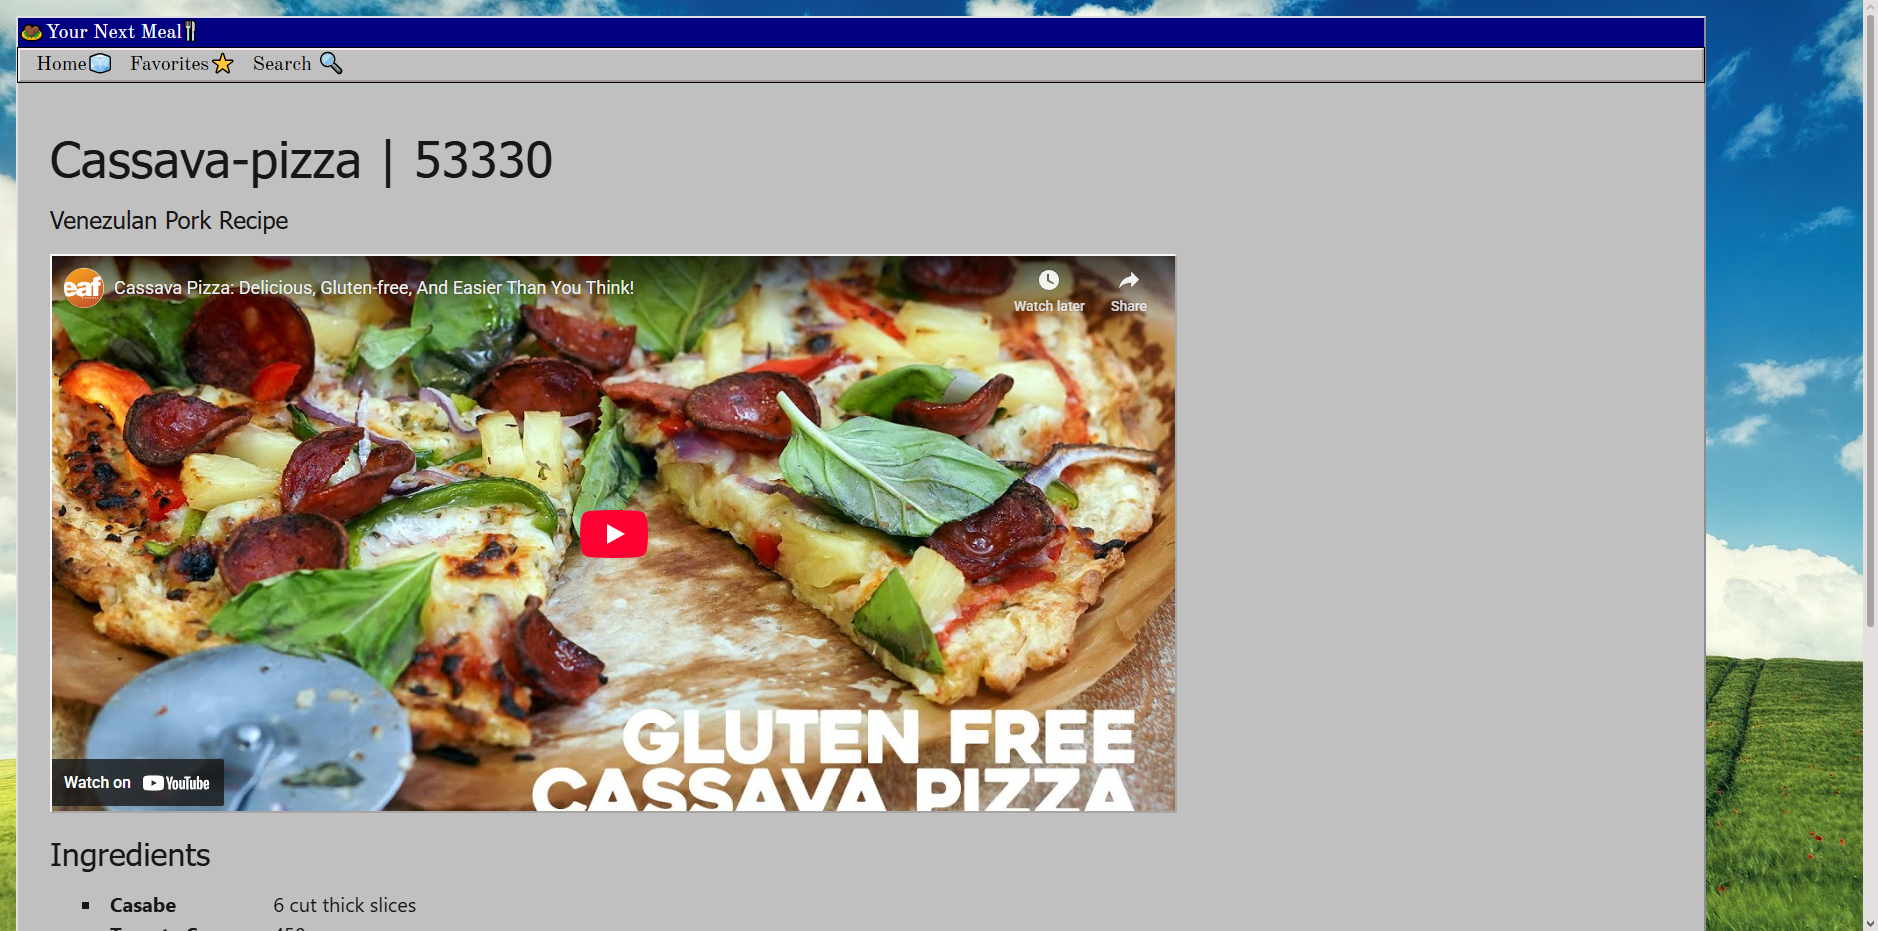
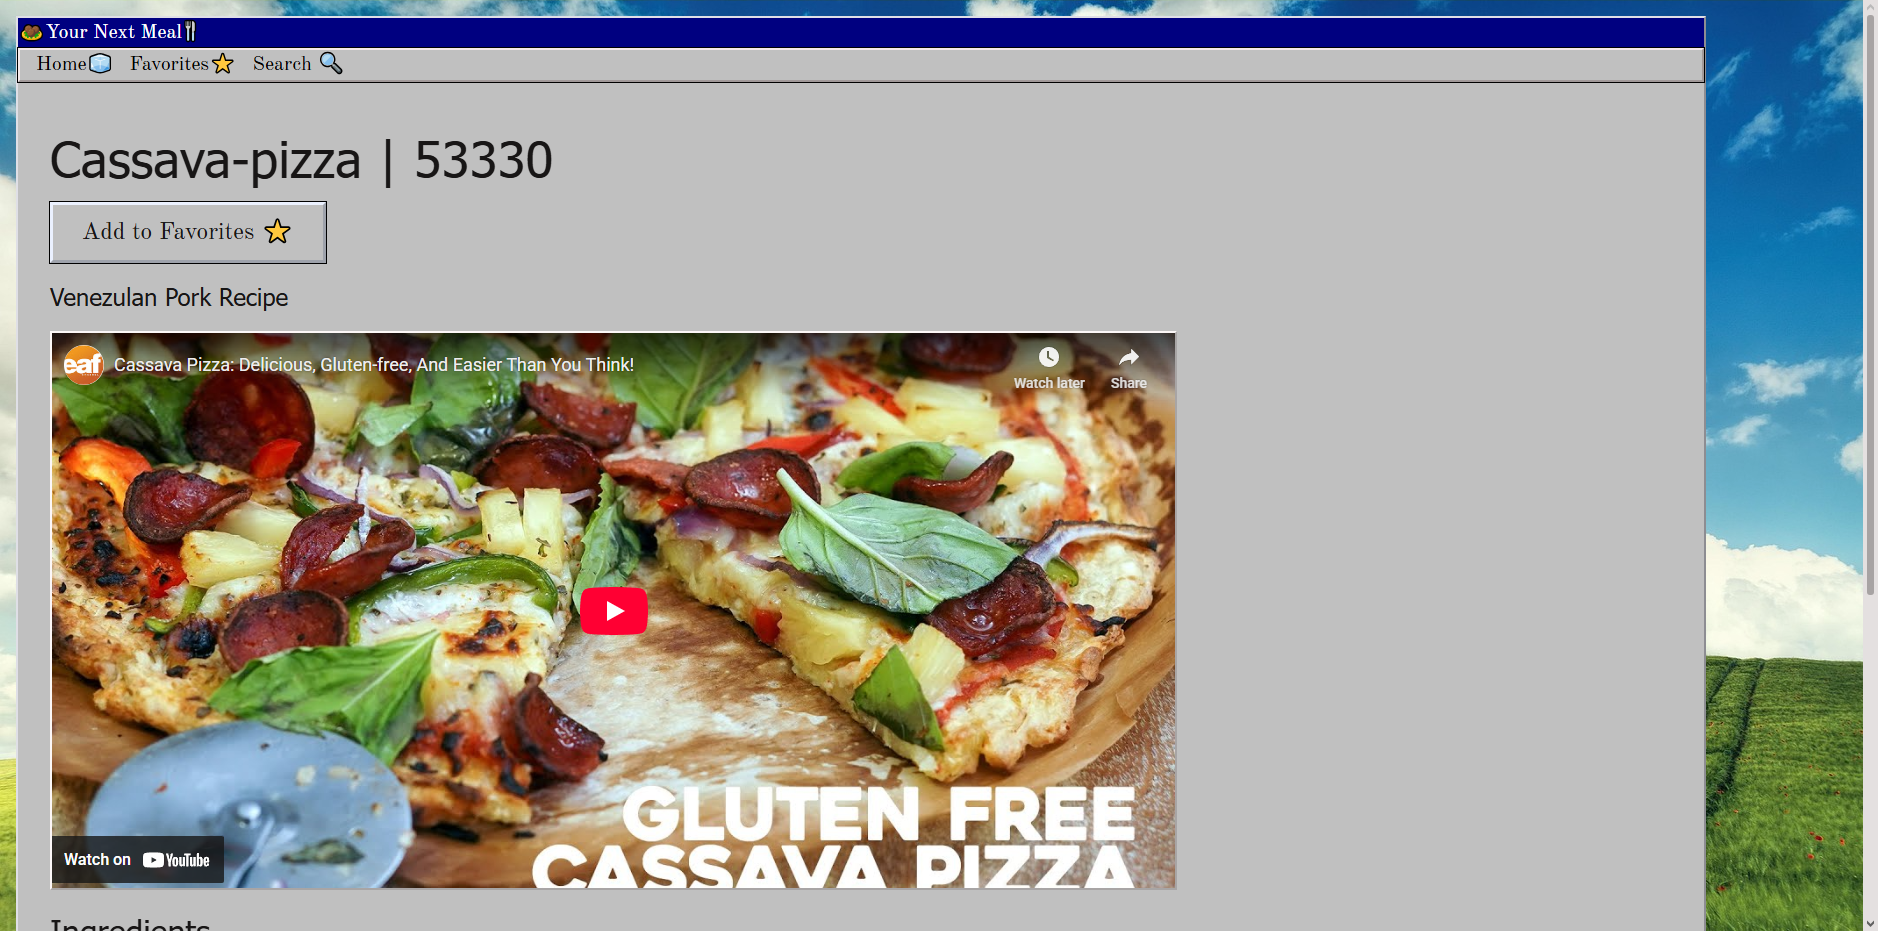
Readme Reflection and images update

diff --git a/README.md b/README.md
@@ -57,6 +57,7 @@ A web app in your default browser will appear with the todo list app available f
 ![Your Next Meal Home Page Preview](src/assets/previews/your-next-meal-home-pc-preview.png)
 ![Your Next Meal Category Page Preview](src/assets/previews/your-next-meal-categorymeals-pc-preview.png)
 ![Your Next Meal Meal Details Preview](src/assets/previews/your-next-meal-mealdetails-pc-preview.png)
+![Your Next Meal Favorites Preview](src/assets/previews/your-next-meal-favorites-pc-preview.png)
 ![Your Next Meal Search Result Page Preview](src/assets/previews/your-next-meal-searchresults-pc-preview.png)
 
 ## My process
@@ -82,12 +83,56 @@ A web app in your default browser will appear with the todo list app available f
 
  **Main Challenges**
 
+  My main challenge was ensuring correct types while using Javascript. I've worked with React mainly in TypeScript and I wanted to challenge myself to do in Javascript to increase my comfortability with React. Without Typescripts type noticing, I couldn't catch as many small errors as easily. An example being when I fetched fromt he MealsDB API and two separate urls both requested similar but not exact data. The categories url retrieved an object with the property meals that contained an array of meal objects within it's category, like so:
+
+  ```
+    {
+      "meals": [
+
+        {
+          strMeal: meal info here
+          strID: 28019283
+          etc
+        },
+        
+        {
+          strMeal: meal info here
+          strID: 28019283
+          etc
+        }, ...
+      ]
+    }
+  ```
+  Simiarly, when you fetch a meal by it's ID it also returns an object with the property meals that contained an array. However, it only returns a singular object. I personally felt this would be very similar since they were both return an object with a property of meals that holds an array. After testing and reevaluating the data retrieved, I realized it was due to the objects within the array holding different properties! Like so: 
+
+  ```
+  {
+    "meals": 
+    [
+      {
+        "idMeal": "52772",
+        "strMeal": "Teriyaki Chicken Casserole",
+        "strMealAlternate": null,
+        "strCategory": "Chicken",
+        "strArea": "Japanese",...
+      }
+    ]
+  }
+  ```
+  
+  I refactored my useFetch custom hook to conditionally check for a full array vs an array holding a singular object. This fixed my error and did not require me to fully list out each property in the two similar data objects. As the fetch by ID url will **always** return a singular object in the meals property, and the fetch by category **always** returns multiple objects within the meals property (I double checked).
+
+  ------------------------------
+
 
  **Design Decisions**
 
+  One partivular design decision I made was to use useEffect for the favorites button. I realized upon creating the favorites button, that there was feedback for showing if a recipe was currently in favorite *unless* you do to the page directly or click it and stayed on the page. Once you clicked off a recipe and returned, the button would prompt you to add it again leading to duplicated. I already has the button setup to toggle the open to add or delete based on the value of a 'clicked' useState variable. So to ensure the button displayed correctly, I used useEffect to toggle the state of clicked based on if the recipe id is already in the favoriteRecipes state variable. useEffect checks upon each mount of the application, so it will know to check each time the user clicks off to another part of the application.
   
 
 ### Useful resources
+
+PerScholas | Advanced React  | Lessons 1-7
 
 **MDN Documentation**
 
@@ -144,6 +189,8 @@ https://fonts.google.com/ - For OFL fonts.
 [Where in the World | Searchbar Functionality](https://github.com/ANIO-Official/where-in-the-world/blob/main/where-in-the-world-main/index.js#L505)
 
 [Input Change Event | Refactored from TS to JS for this project](https://github.com/ANIO-Official/context-api-implementation/blob/main/src/components/TodoInput/TodoInput.tsx)
+
+[Context API Implementation | Refactored todoContext for favoritesContext](https://github.com/ANIO-Official/context-api-implementation/blob/main/src/components/TodoProviders.tsx)
 
 ## Author
 
